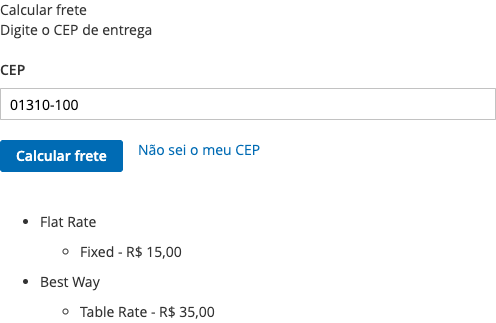
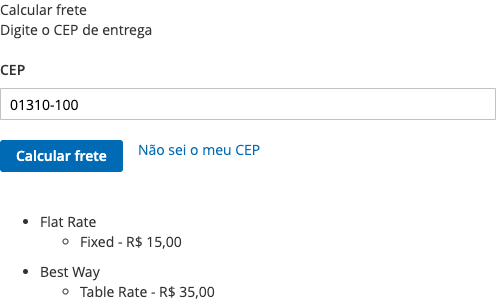
docs: add the 1.1.0 changelog and the development workflow
Refresh the screenshots with the latest end-to-end run and document setup-dev.sh, composer check and the hooks.

diff --git a/CHANGELOG.md b/CHANGELOG.md
@@ -5,6 +5,34 @@ All notable changes to this project are documented in this file.
 The format is based on [Keep a Changelog](https://keepachangelog.com/en/1.1.0/), and this project adheres to
 [Semantic Versioning](https://semver.org/spec/v2.0.0.html).
 
+## [1.1.0] - 2026-10-24
+
+Quality release: no change in what the storefront shows (the end-to-end tests pass with the same prices), but the module is
+now structured, tested and checked the way a Magento 2 module should be.
+
+### Changed
+
+- The estimate logic moved from the controller into `Model/ShippingEstimator`, behind `Api/ShippingEstimatorInterface`
+  (bound in `etc/di.xml`). The controller only reads and validates the request, calls the service and returns the JSON.
+- The block that fed the template is a **ViewModel** passed as a layout argument.
+- A shipping method is described with the phrases `%1 - %2` and `%1 - %2 - %3` instead of glued pieces; the CSV files (an
+  `en_US.csv` was added) carry exactly the phrases the code uses.
+- The markup uses `data-role` / `data-action` hooks scoped to the widget element instead of fixed ids; CSS classes are BEM
+  (`fineweb-shipping-estimate__*`).
+
+### Added
+
+- CI jobs: blacklist, `composer validate --strict`, tests exist, multi-store scope, phpcs with warnings blocking, phpmd (Magento
+  rule set), phpstan level 9, PHPUnit with a 70% per-file coverage gate on PHP 8.2 and 8.3 and ESLint 10.
+- Local git hooks (`.githooks`, `setup-dev.sh`), the review guide (`.github/copilot-instructions.md`), a pull request
+  template and `CLAUDE.md`.
+- Unit tests for the service and the ViewModel (32 tests, 100% coverage of every file).
+
+### Fixed
+
+- The Composer package no longer carries the tests, the CI files and the tooling (`export-ignore`).
+- The "The product could not be loaded." message is translated.
+
 ## [1.0.0] - 2026-10-24
 
 First tagged release. It modernizes the module first published in 2020 for Magento 2.4.7+ and PHP 8.2/8.3.
@@ -47,4 +75,5 @@ First tagged release. It modernizes the module first published in 2020 for Magen
   that form instead of estimating.
 - The "I do not know the postcode" link used plain HTTP (it only worked through a redirect) and had no `rel="noopener"`.
 
+[1.1.0]: https://github.com/roni-clei-santos/m2-estimate-shipping-brazil/releases/tag/v1.1.0
 [1.0.0]: https://github.com/roni-clei-santos/m2-estimate-shipping-brazil/releases/tag/v1.0.0

diff --git a/README.md b/README.md
@@ -88,11 +88,14 @@ They were captured by the end-to-end tests, so they show what the module renders
 ## Development
 
 ```bash
-# original Magento packages from a public mirror, no repo.magento.com keys needed
-composer config -g repositories.magento-mirror composer https://mirror.mage-os.org/
-composer install
-composer check        # phpcs + phpstan + PHPUnit
+./setup-dev.sh        # composer install, npm install and the git hooks (core.hooksPath = .githooks)
+composer check        # blacklist, phpcs (warnings block), phpmd, phpstan level 9, tests-exist, multi-store, coverage
+npm run lint          # ESLint 10 on the module JavaScript
 ```
+
+The dependencies come from a public mirror of the original Magento packages, no `repo.magento.com` keys needed
+(`composer config -g repositories.magento-mirror composer https://mirror.mage-os.org/`). The same checks run in CI on PHP 8.2
+and 8.3; PHPUnit must keep every file at 70% line coverage or more. `CLAUDE.md` describes the structure and the rules.
 
 The `e2e/` folder has the Playwright tests that run against a store with the module installed; see `e2e/README.md`.
 
